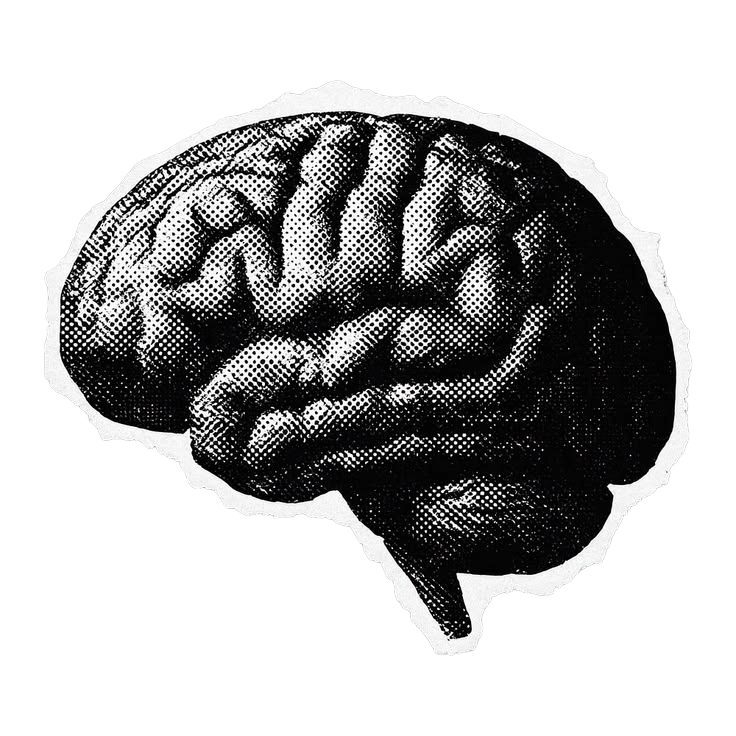
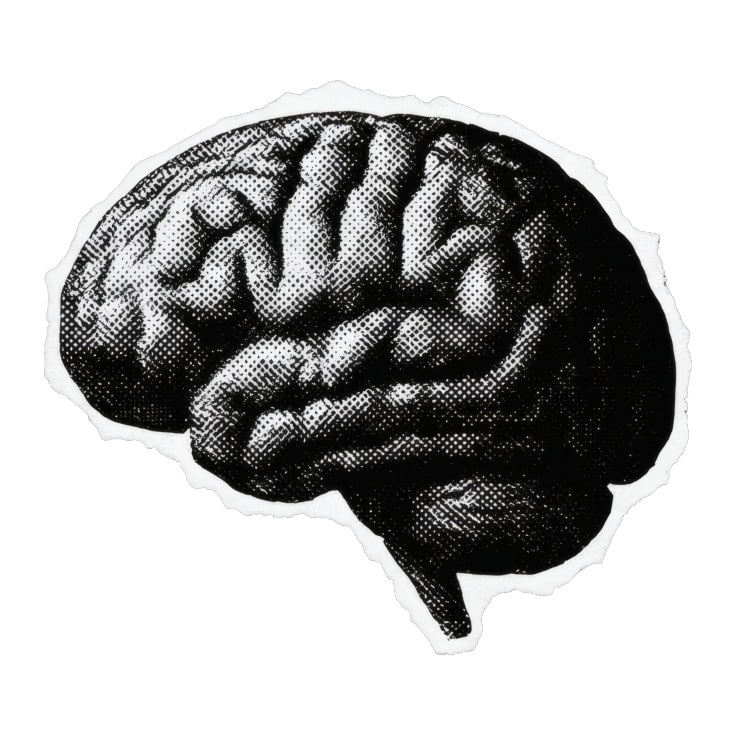
Enhance README.md by restructuring current focus section into a table format for improved readability and added a new illustration. Updated brain image to a new version.

diff --git a/README.md b/README.md
@@ -32,11 +32,21 @@
 
 ---
 
-## Foco no momento
-
-- Construir coisas **úteis de verdade** (menos demo superficial, mais problema real).
-- Melhorar **documentação e organização** de ideias técnicas — especialmente quando o material nasce caótico (aula, log, rascunho).
-- Afinar **automação** sem virar Frankenstein: código legível, módulos com responsabilidade clara, espaço para crescer.
+<table>
+  <tr>
+    <td valign="top">
+      <h2>Foco no momento</h2>
+      <ul>
+        <li>Construir coisas <strong>úteis de verdade</strong> (menos demo superficial, mais problema real).</li>
+        <li>Melhorar <strong>documentação e organização</strong> de ideias técnicas — especialmente quando o material nasce caótico (aula, log, rascunho).</li>
+        <li>Afinar <strong>automação</strong> sem virar Frankenstein: código legível, módulos com responsabilidade clara, espaço para crescer.</li>
+      </ul>
+    </td>
+    <td width="200" valign="top" align="right">
+      <img src="assets/magnifier.png" alt="Ilustração em halftone de uma mão segurando uma lupa" width="180" />
+    </td>
+  </tr>
+</table>
 
 ---
 
